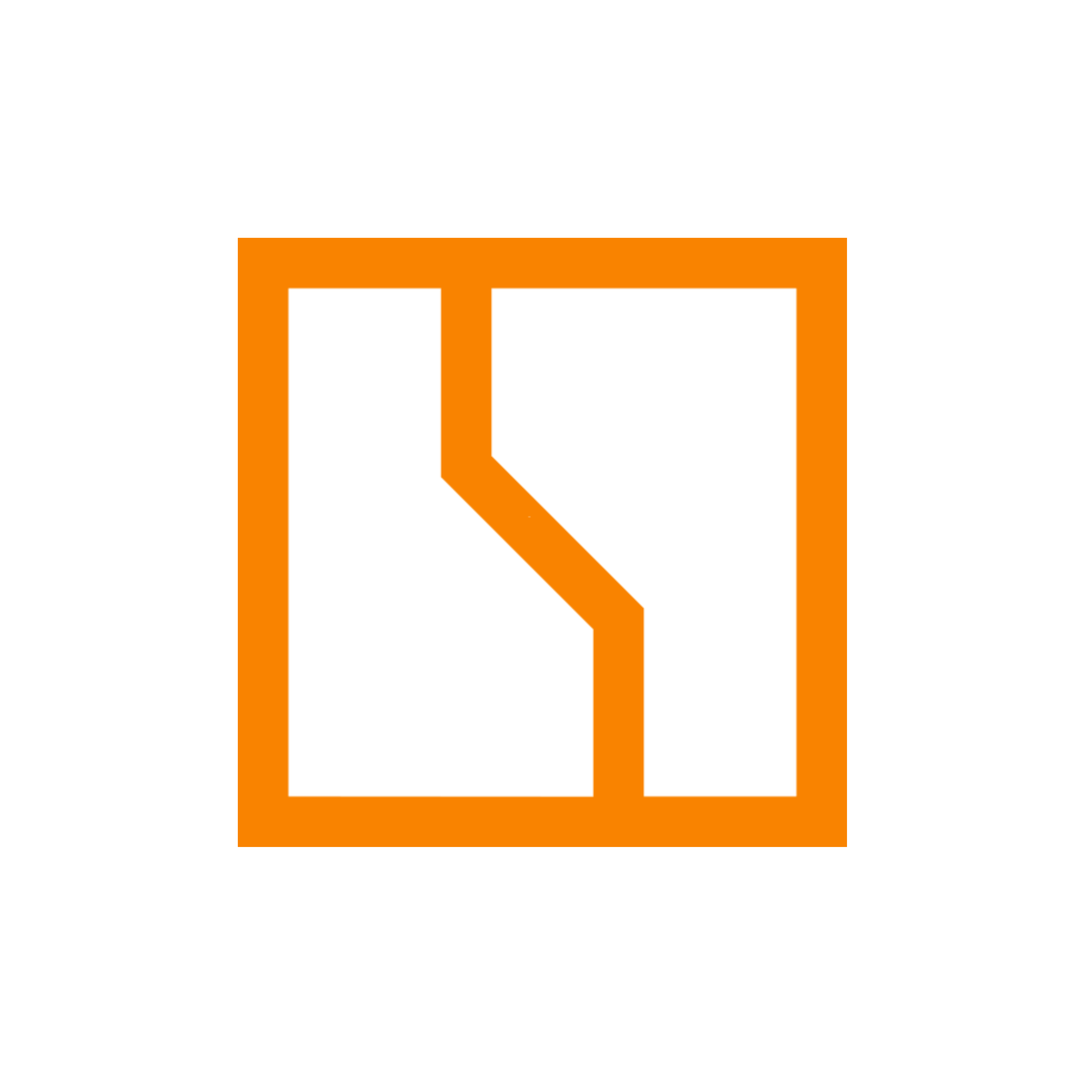
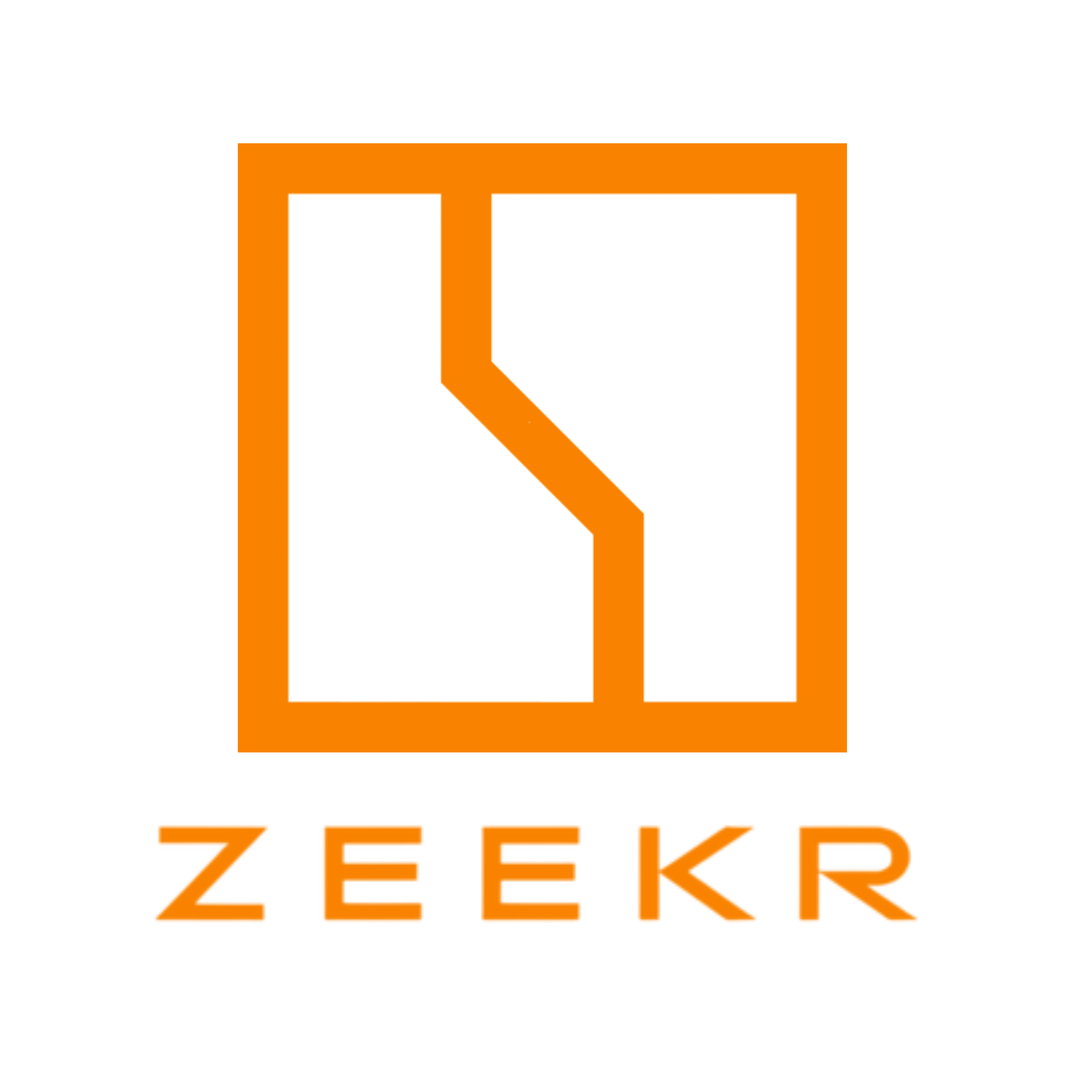
Updated

Changed region(s): [[0.1248, 0.624, 0.8424, 0.8736], [0.2184, 0.1248, 0.78, 0.2808], [0.4056, 0.3432, 0.5928, 0.5928]]

diff --git a/src/components/Public/EditorialServicePage.tsx b/src/components/Public/EditorialServicePage.tsx
@@ -72,6 +72,13 @@ const heroPanelByService: Record<string, string> = {
   "lexus-approved-body-shop-melbourne": media.heroPanels.lexus,
 };
 
+const approvedBrandIntroMarks: Record<string, { src: string; alt: string; width: number; height: number }> = {
+  Tesla: { src: "/images/tesla-approved-body-shop.webp", alt: "Tesla Approved Body Shop", width: 620, height: 204 },
+  Zeekr: { src: "/images/Zeekr Orange.webp", alt: "Zeekr", width: 320, height: 120 },
+  BYD: { src: "/images/BYD Red.webp", alt: "BYD", width: 320, height: 120 },
+  Lexus: { src: "/images/Lexus Silver.webp", alt: "Lexus", width: 320, height: 120 },
+};
+
 function heroPanelFor(service: ServiceContent) {
   return heroPanelByService[service.slug] ?? service.image;
 }
@@ -169,14 +176,14 @@ export default function EditorialServicePage({ service, copy }: { service: Servi
   const chapters = usesApprovedBrandLayout ? copy.sections.slice(6) : copy.sections;
   const related = services.filter((other) => other.slug !== service.slug && getEditorialServiceCopy(other.slug)).slice(0, 3);
   const faqHref = `/frequently-asked-questions?category=${encodeURIComponent(copy.category)}`;
+  const brandIntroMark = usesApprovedBrandLayout ? approvedBrandIntroMarks[copy.category] : undefined;
   const navigation: SectionNavigationItem[] = [
     ...(usesApprovedBrandLayout ? [{ id: "repair-standard", label: `${sourceText(copy.category)} repair standards`, number: "01" }] : []),
     ...chapters.map((section, index) => ({ id: sourceSectionId(index), label: sourceText(section.heading), number: String(index + 1 + (usesApprovedBrandLayout ? 1 : 0)).padStart(2, "0") })),
-    ...(copy.faqs.length ? [{ id: "service-faqs", label: "Questions & answers", number: "FAQ" }] : []),
   ];
 
   return (
-    <main className={`ca-service${isTesla ? " ca-service--tesla" : ""}${isZeekr ? " ca-service--zeekr" : ""}`}>
+    <main className={`ca-service${isTesla ? " ca-service--tesla" : ""}${isZeekr ? " ca-service--zeekr" : ""}${usesApprovedBrandLayout ? " ca-service--approved-brand" : ""}`}>
       <section className="ca-service__hero" aria-labelledby="service-heading">
         <div className="ca-service__hero-background" aria-hidden="true"><img src={service.image} alt="" /></div>
         <div className="shell ca-service__hero-grid">
@@ -206,7 +213,7 @@ export default function EditorialServicePage({ service, copy }: { service: Servi
           </div>
           <div className="ca-service__introduction-body">
             {copy.introParagraphs.map((paragraph, index) => <p key={index}>{sourceText(paragraph)}</p>)}
-            {isTesla && copy.brandMarks.length > 0 ? <div className="ca-service__brand-mark ca-service__brand-mark--image"><Image src="/images/Tesla Approved.webp" alt="Tesla Approved Body Shop" width={620} height={220} sizes="(max-width: 720px) 100vw, 620px" /></div> : copy.brandMarks.length > 0 ? <div className="ca-service__brand-mark" aria-label={copy.brandMarks.map(sourceText).join(" ")}>{copy.brandMarks.map((mark, index) => <span key={mark} className={index === 0 ? "ca-service__brand-name" : "ca-service__brand-caption"}>{sourceText(mark)}</span>)}</div> : null}
+            {brandIntroMark ? <div className="ca-service__brand-intro-proof"><div className="ca-service__brand-intro-mark"><Image src={brandIntroMark.src} alt={brandIntroMark.alt} width={brandIntroMark.width} height={brandIntroMark.height} sizes="(max-width: 920px) 320px, 620px" /></div></div> : copy.brandMarks.length > 0 ? <div className="ca-service__brand-mark" aria-label={copy.brandMarks.map(sourceText).join(" ")}>{copy.brandMarks.map((mark, index) => <span key={mark} className={index === 0 ? "ca-service__brand-name" : "ca-service__brand-caption"}>{sourceText(mark)}</span>)}</div> : null}
           </div>
         </div>
       </section>
@@ -226,13 +233,6 @@ export default function EditorialServicePage({ service, copy }: { service: Servi
         {chapters.map((section, index) => <EditorialSection key={`${index}-${section.heading}`} section={section} index={index} isZeekr={isZeekr} serviceSlug={service.slug} />)}
       </div>
 
-      {copy.faqs.length > 0 && <section id="service-faqs" className="ca-service__faq-link">
-        <div className="shell ca-service__faq-link-inner">
-          <div><span className="ca-service__small-label">NEED MORE INFORMATION?</span><h2>Questions before your repair?</h2><p>Read the original {copy.category} questions and answers on our dedicated FAQ page.</p></div>
-          <Link className="ca-service__button ca-service__button--outline" href={faqHref}>View {copy.category} FAQs <Icon name="arrow-outward" /></Link>
-        </div>
-      </section>}
-
       <section className="ca-service__contact-band" aria-label="Contact the CA Autobody team">
         <div className="shell ca-service__contact-band-inner">
           <div className="ca-service__contact-copy">
@@ -240,6 +240,7 @@ export default function EditorialServicePage({ service, copy }: { service: Servi
             <h2>{sourceText(copy.contactHeading ?? "Let’s talk about your vehicle.")}</h2>
             <span className="ca-service__chapter-rule" aria-hidden="true" />
             <p>{sourceText(copy.contactCopy ?? "Talk directly with our team about an assessment, repair options and getting back on the road.")}</p>
+            {copy.faqs.length > 0 ? <div className="ca-service__contact-faq"><Link className="ca-service__button ca-service__button--outline" href={faqHref}>View {copy.category} FAQs <Icon name="arrow-outward" /></Link></div> : null}
             {copy.disclaimer ? <p className="ca-service__disclaimer"><strong>Small print:</strong> {sourceText(copy.disclaimer)}</p> : null}
             <div className="ca-service__contact-detail"><span>VISIT THE WORKSHOP</span><strong>7 Ashley Park Drive<br />Chelsea Heights, VIC 3196</strong></div>
           </div>

diff --git a/src/app/site-enhancements.css b/src/app/site-enhancements.css
@@ -44,10 +44,10 @@
 @media(prefers-reduced-motion:reduce){.service-area-map__areas button,.service-area-map__areas button i,.service-area-map__pin,.service-area-map__selection a,.service-area-map__selection a b,.service-area-map__directions{transition:none!important}}
 
 /* Global review link: compact, recognisable and available on every public page. */
-.hp-google-rating-float{position:fixed;z-index:70;left:clamp(12px,2vw,28px);bottom:clamp(12px,2vw,26px);width:164px;min-height:58px;padding:9px 11px;display:grid;grid-template-columns:31px auto 1fr;grid-template-rows:19px 17px;align-items:center;column-gap:7px;background:#fff;color:#151515!important;border-radius:9px;box-shadow:0 12px 30px rgba(0,0,0,.22);font-family:Arial,sans-serif;line-height:1;transition:transform .2s var(--hp-ease),box-shadow .2s var(--hp-ease)}
-.hp-google-rating-float:hover{transform:translateY(-2px);box-shadow:0 16px 34px rgba(0,0,0,.28)}
+.hp-google-rating-float{position:fixed;z-index:70;left:clamp(12px,2vw,28px);bottom:clamp(12px,2vw,26px);width:232px;min-height:70px;padding:13px 15px;display:grid;grid-template-columns:38px minmax(0,1fr);align-items:center;column-gap:13px;background:#fffdf9;color:#151515!important;border:1px solid #e7dfd1;border-radius:11px;box-shadow:0 10px 25px rgba(31,27,21,.16);font-family:Arial,sans-serif;line-height:1;transition:transform .2s var(--hp-ease),box-shadow .2s var(--hp-ease),border-color .2s var(--hp-ease)}
+.hp-google-rating-float:hover{transform:translateY(-2px);border-color:#d5b980;box-shadow:0 14px 30px rgba(31,27,21,.2)}
 .hp-google-rating-float:focus-visible{outline:2px solid var(--hp-gold-2);outline-offset:3px}
-.hp-google-rating-float__mark{grid-row:1/3;width:30px;height:30px}.hp-google-rating-float__copy{display:contents}.hp-google-rating-float__copy b{grid-column:2/4;grid-row:1;color:#171717;font-size:12px;font-weight:700;letter-spacing:-.01em}.hp-google-rating-float__copy strong{grid-column:2;grid-row:2;color:#171717;font-size:12px;font-weight:700}.hp-google-rating-float__stars{grid-column:3;grid-row:2;color:#e9aa14;font-size:14px;letter-spacing:-1px;white-space:nowrap}
+.hp-google-rating-float__mark{width:38px;height:38px}.hp-google-rating-float__copy{display:grid;min-width:0;gap:7px}.hp-google-rating-float__copy b{color:#3c3730;font-size:10px;font-weight:800;letter-spacing:.075em;line-height:1.1;text-transform:uppercase;white-space:nowrap}.hp-google-rating-float__metric{display:flex;align-items:center;gap:11px;min-height:18px}.hp-google-rating-float__copy strong{color:#171717;font-size:18px;font-weight:800;letter-spacing:-.04em;line-height:1}.hp-google-rating-float__stars{color:#f2b705;font-size:16px;letter-spacing:1px;line-height:1;white-space:nowrap}
 
 /* One typographic rule keeps every desktop navigation label on the same baseline. */
 .hp-header__inner{grid-template-columns:154px minmax(0,1fr) auto;gap:22px}.hp-nav{justify-content:center}.hp-nav__link{min-height:100%;padding-inline:17px;font-size:clamp(12px,.82vw,14px);font-weight:600;line-height:1;letter-spacing:-.012em}.hp-nav__link::after{left:17px;right:17px}.hp-header__call{font-size:13px;font-weight:700;line-height:1;letter-spacing:-.01em}
@@ -58,7 +58,7 @@
 @media(max-width:1240px){.hp-header__inner{grid-template-columns:124px minmax(0,1fr) auto;gap:10px}.hp-nav__link{padding-inline:11px;font-size:12px}.hp-nav__link::after{left:11px;right:11px}.hp-footer__grid{grid-template-columns:1.05fr .72fr .95fr 1.15fr;gap:36px 28px}.hp-footer__brand{grid-row:span 2}.hp-footer__contact{grid-column:4;grid-row:1/3;padding-left:27px}.hp-footer__areas{grid-column:2/4}}
 @media(max-width:1020px){.hp-header__inner{grid-template-columns:1fr auto auto}.hp-nav__link{min-height:58px;padding-inline:4px;font-size:15px;line-height:1.15;letter-spacing:0}.hp-footer__grid{grid-template-columns:1.1fr 1fr 1fr;gap:44px 30px}.hp-footer__brand{grid-row:span 2}.hp-footer__areas{grid-column:2/4}.hp-footer__contact{grid-column:auto;grid-row:auto;padding-left:0;border-left:0}}
 @media(max-width:780px){.hp-footer__grid{grid-template-columns:1fr 1fr;gap:42px 28px;padding-top:52px;padding-bottom:44px}.hp-footer__brand{grid-column:1/-1;grid-row:auto}.hp-footer__areas{grid-column:auto}.hp-footer__contact{grid-column:1/-1;display:grid;grid-template-columns:1fr 1fr;column-gap:28px}.hp-footer__contact h3{grid-column:1/-1}.hp-footer__contact .hp-footer__socials{align-self:start}.hp-google-rating-float{bottom:12px;left:12px}.hp-header__call{font-size:0}.hp-header__call svg{width:19px;height:19px}}
-@media(max-width:520px){.hp-google-rating-float{width:158px;min-height:56px;left:10px;bottom:10px}.hp-footer__grid{grid-template-columns:1fr;gap:35px;padding-top:44px}.hp-footer__brand{grid-column:auto}.hp-footer__contact{grid-column:auto;display:block}.hp-footer__areas{grid-template-columns:1fr 1fr}.hp-footer__bottom{align-items:flex-start}.hp-footer__bottom a{margin-top:4px}}
+@media(max-width:520px){.hp-google-rating-float{width:218px;min-height:66px;padding:12px;column-gap:11px;left:10px;bottom:10px}.hp-google-rating-float__mark{width:35px;height:35px}.hp-google-rating-float__copy{gap:6px}.hp-google-rating-float__copy strong{font-size:17px}.hp-google-rating-float__stars{font-size:15px;letter-spacing:.7px}.hp-footer__grid{grid-template-columns:1fr;gap:35px;padding-top:44px}.hp-footer__brand{grid-column:auto}.hp-footer__contact{grid-column:auto;display:block}.hp-footer__areas{grid-template-columns:1fr 1fr}.hp-footer__bottom{align-items:flex-start}.hp-footer__bottom a{margin-top:4px}}
 @media(prefers-reduced-motion:reduce){.hp-google-rating-float{transition:none!important}}
 
 /* Editorial utility patterns: predictable, responsive and deliberately restrained. */

diff --git a/src/app/service-refresh.css b/src/app/service-refresh.css
@@ -49,29 +49,27 @@
 
 /* SIDE NAV — every anchor targets a DOM section on the same service page. */
 .ca-service .ca-service__introduction {padding-block: clamp(72px, 7vw, 110px)}
-.ca-service .ca-service__introduction-grid {grid-template-columns: minmax(215px, .33fr) minmax(0, 1fr); gap: clamp(42px, 7vw, 115px)}
+.ca-service .ca-service__introduction-grid {grid-template-columns: minmax(215px, .33fr) minmax(0, 1fr); gap: clamp(32px, 4vw, 68px)}
 .ca-service .ca-service__introduction-aside {top: 110px; max-height: calc(100vh - 130px); overflow-y: auto; scrollbar-width: thin}
 .ca-service .ca-service__introduction-aside > p {font-size: clamp(20px, 1.45vw, 24px); letter-spacing: -.035em; line-height: 1.22; margin: 11px 0 22px}
 .ca-service .ca-service__index-links {border-top: 1px solid #d4cec3; padding-top: 16px}
 .ca-service .ca-service__index-links > span {font-size: 10px; color: #8b7965; margin-bottom: 13px; letter-spacing: .15em}
 .ca-service .ca-service__index-links a {
-  display: grid; grid-template-columns: 25px minmax(0,1fr); gap: 10px;
-  font-size: clamp(14px, .9vw, 15px); line-height: 1.48; padding: 12px 7px 12px 0;
+  display: grid; grid-template-columns: 30px minmax(0,1fr); gap: 12px;
+  font-size: clamp(18px, 1.35vw, 20px); font-weight: 700; line-height: 1.38; padding: 17px 7px 17px 0;
   border-bottom: 1px solid #e6e2dc; color: #47433d; transition: color .2s, padding-left .2s;
 }
-.ca-service .ca-service__index-links a > span:first-child {color: #ae8248; font-size: 10px; padding-top: 2px}
+.ca-service .ca-service__index-links a > span:first-child {color: #ae8248; font-size: 12px; padding-top: 3px}
 .ca-service .ca-service__index-links a > span:last-child {min-width: 0}
 .ca-service .ca-service__index-links a:hover, .ca-service .ca-service__index-links a.is-current {color: #8a5d26; padding-left: 5px}
 .ca-service .ca-service__index-links a.is-current {font-weight: 700}
 .ca-service .ca-service__introduction-body > p {font-size: clamp(16px, 1.28vw, 19px); line-height: 1.85}
 .ca-service .ca-service__introduction-body > p:first-child {font-size: inherit}
-.ca-service .ca-service__chapter, .ca-service .ca-service__features, .ca-service .ca-service__faq-link {scroll-margin-top: 105px}
+.ca-service .ca-service__chapter, .ca-service .ca-service__features {scroll-margin-top: 105px}
 .ca-service .ca-service__features {scroll-margin-top: 105px}
 .ca-service .ca-service__chapter-side h2 {font-size: clamp(29px, 2.7vw, 44px); line-height: 1.16; margin-top: 0}
 .ca-service .ca-service__chapter {padding-block: clamp(66px, 7vw, 105px)}
 .ca-service .ca-service__paragraph, .ca-service .ca-service__detail p {font-size: clamp(15px, 1.15vw, 17px); line-height: 1.86}
-.ca-service .ca-service__faq-link {padding-block: clamp(48px, 5vw, 76px); background: #eee8dd}
-.ca-service .ca-service__faq-link h2 {font-size: clamp(26px, 2.6vw, 40px)}
 
 /* CHAPTER FLOW — narrow screens read top-to-bottom; desktop returns the chapter title
    to its own left rail so every service page shares the same reading structure. */
@@ -93,15 +91,6 @@
   .ca-service .ca-service__section-content { max-width: 800px; margin-top: 0; }
   .ca-service .ca-service__section-content > .ca-service__paragraph { max-width: 760px; }
   .ca-service .ca-service__bullet-list { max-width: 800px; margin-top: 0; }
-}
-
-/* FAQ ACTION — place the action beside the supporting copy instead of against the page edge. */
-.ca-service .ca-service__faq-link-inner {display: grid;grid-template-columns: minmax(0, 620px) max-content;justify-content: start;align-items: center;gap: clamp(24px, 4vw, 64px)}
-.ca-service .ca-service__faq-link-inner > div {max-width: 620px}
-
-@media(max-width:900px) {
-  .ca-service .ca-service__faq-link-inner {grid-template-columns: minmax(0, 1fr);gap: 26px}
-  .ca-service .ca-service__faq-link .ca-service__button {justify-self: start}
 }
 
 @media(max-width:690px) {
@@ -545,4 +534,45 @@
   .brand-repair-page .brand-assessment-intake { padding-block: 54px 64px; }
   .ca-service .ca-service__hero::before,
   .brand-repair-page .brand-hero::before { background: rgba(15,14,12,.7); }
+}
+
+/* Service guide is a genuine page directory. Keep it prominent against the body copy,
+   including where older editorial rules are loaded by a cached stylesheet. */
+.ca-service .ca-service__introduction-aside > .ca-service__small-label {
+  font-size: 13px !important;
+  letter-spacing: .18em;
+}
+.ca-service .ca-service__introduction-aside > p {
+  font-size: clamp(26px, 1.9vw, 30px) !important;
+  line-height: 1.16;
+  margin-bottom: 28px;
+}
+.ca-service .ca-service__index-links > span {
+  font-size: 12px !important;
+  letter-spacing: .16em;
+  margin-bottom: 16px;
+}
+.ca-service .ca-service__index-links a {
+  grid-template-columns: 42px minmax(0, 1fr);
+  gap: 16px;
+  font-size: clamp(23px, 1.8vw, 26px) !important;
+  font-weight: 700;
+  line-height: 1.3;
+  padding-block: 22px;
+}
+.ca-service .ca-service__index-links a > span:first-child {
+  font-size: 15px !important;
+  padding-top: 4px;
+}
+.ca-service .ca-service__index-links a > span:last-child {
+  font-size: clamp(18px, 1.3vw, 20px) !important;
+  font-weight: 700;
+  line-height: 1.3;
+}
+
+@media (max-width: 650px) {
+  .ca-service .ca-service__introduction-aside > .ca-service__small-label { font-size: 12px !important; }
+  .ca-service .ca-service__introduction-aside > p { font-size: 27px !important; }
+  .ca-service .ca-service__index-links a { font-size: 23px !important; }
+  .ca-service .ca-service__index-links a > span:last-child { font-size: 18px !important; }
 }

diff --git a/src/app/premium-refinements.css b/src/app/premium-refinements.css
@@ -23,6 +23,19 @@
 .ca-service .ca-service__contact-card h3{font-size:clamp(26px,2.6vw,37px);font-weight:700;line-height:1.16;letter-spacing:-.04em;margin:0 0 10px}
 .ca-service .ca-service__contact-card .ca-service__button{min-width:240px}
 
+/* Approved brand introductions reserve a restrained ruled field for their
+   supplied approval mark. The Service Guide remains unchanged. */
+@media(min-width:921px){.ca-service--approved-brand .ca-service__introduction-grid{align-items:stretch}.ca-service--approved-brand .ca-service__introduction-body{display:flex;flex-direction:column;min-height:100%}.ca-service--approved-brand .ca-service__brand-intro-proof{margin-top:auto}}
+.ca-service__brand-intro-proof{width:min(100%,840px);margin-top:clamp(42px,5.5vw,84px);padding:clamp(28px,3vw,40px) 0;border-top:1px solid #d6cfc2;border-bottom:1px solid #d6cfc2}
+.ca-service__brand-intro-mark{display:flex;align-items:center;min-height:clamp(124px,11vw,164px)}
+.ca-service__brand-intro-mark img{display:block;width:min(100%,500px);height:clamp(124px,11vw,164px);object-fit:contain;object-position:left center}
+.ca-service--tesla .ca-service__brand-intro-mark{min-height:clamp(154px,12vw,190px)}
+.ca-service--tesla .ca-service__brand-intro-mark img{width:min(100%,620px);height:clamp(154px,12vw,190px)}
+.ca-service--zeekr .ca-service__brand-intro-mark{min-height:clamp(190px,14vw,230px)}
+.ca-service--zeekr .ca-service__brand-intro-mark img{width:clamp(190px,14vw,230px);height:clamp(190px,14vw,230px)}
+@media(max-width:920px){.ca-service__brand-intro-proof{width:100%;margin-top:38px}.ca-service__brand-intro-mark{min-height:118px}.ca-service__brand-intro-mark img{width:min(100%,390px);height:132px}.ca-service--tesla .ca-service__brand-intro-mark{min-height:142px}.ca-service--tesla .ca-service__brand-intro-mark img{width:min(100%,480px);height:142px}.ca-service--zeekr .ca-service__brand-intro-mark{min-height:184px}.ca-service--zeekr .ca-service__brand-intro-mark img{width:184px;height:184px}}
+@media(max-width:560px){.ca-service__brand-intro-proof{margin-top:32px;padding-block:24px}.ca-service__brand-intro-mark img{width:min(100%,320px);height:118px}.ca-service--tesla .ca-service__brand-intro-mark{min-height:118px}.ca-service--tesla .ca-service__brand-intro-mark img{width:100%;height:118px}.ca-service--zeekr .ca-service__brand-intro-mark{min-height:160px}.ca-service--zeekr .ca-service__brand-intro-mark img{width:160px;height:160px}}
+
 /* Brand artwork is contained in the existing editorial rhythm rather than treated as a text substitute. */
 .ca-service__brand-mark--image{display:flex;align-items:center;max-width:620px;min-height:220px;margin-top:clamp(28px,4vw,46px);padding:clamp(22px,3vw,32px) 0;overflow:hidden;border-top:1px solid currentColor;border-bottom:1px solid currentColor}
 .ca-service__brand-mark--image img{display:block;width:100%;height:180px;max-height:none;object-fit:contain;object-position:left center;transform:scale(1.4);transform-origin:left center}

diff --git a/src/app/service-editorial.css b/src/app/service-editorial.css
@@ -76,16 +76,13 @@
 .ca-service__bullet-list li{position:relative;border-bottom:1px solid #d8d2c7;padding:15px 10px 15px 22px;font-size:14px;line-height:1.5;font-weight:700;color:#34312b}
 .ca-service__bullet-list li::before{content:"";width:6px;height:6px;background:#a97836;position:absolute;top:22px;left:1px}
 .ca-service__chapter--ink .ca-service__bullet-list li{color:#efebe6;border-bottom-color:#514a40}
-.ca-service__faq-link{background:#efe8db;padding:clamp(60px,6vw,94px) 0}
-.ca-service__faq-link-inner{display:flex;align-items:center;justify-content:space-between;gap:50px}
-.ca-service__faq-link h2{font-size:clamp(30px,3.35vw,47px);line-height:1.1;letter-spacing:-.045em;margin:15px 0}
-.ca-service__faq-link p{color:#5c564c;font-size:15px;line-height:1.7;margin:0;max-width:570px}
-.ca-service__faq-link .ca-service__button{flex-shrink:0}
 .ca-service__contact-band{background:#10100f;color:#fff;padding:clamp(78px,9vw,125px) 0}
 .ca-service__contact-band-inner{display:flex;justify-content:space-between;align-items:center;gap:45px}
 .ca-service__contact-band .ca-service__small-label{color:#d3a963}
 .ca-service__contact-band h2{font-size:clamp(37px,5vw,68px);letter-spacing:-.06em;font-weight:650;line-height:1.08;max-width:700px;margin:17px 0 23px}
 .ca-service__contact-band p{color:#beb8af;font-size:15px;line-height:1.75;max-width:550px;margin:0}
+.ca-service__contact-faq{margin-top:clamp(24px,2.4vw,32px)}
+.ca-service__contact-faq .ca-service__button{min-width:min(100%,260px)}
 .ca-service__contact-band-inner>div:last-child{display:grid;gap:19px;justify-items:stretch;min-width:235px}
 .ca-service__contact-phone{color:#fff;text-align:center;font-size:19px;letter-spacing:-.025em;font-weight:650}
 .ca-service__contact-phone:hover{color:#d3a963}
@@ -128,7 +125,7 @@
   .ca-service__section-content--offerings,.ca-service__section-content--reasons,.ca-service__bullet-list{grid-template-columns:1fr}
   .ca-service__section-content--offerings>.ca-service__detail{padding:25px 0}
   .ca-service__detail{gap:8px;grid-template-columns:30px minmax(0,1fr)}
-  .ca-service__faq-link-inner,.ca-service__contact-band-inner{display:grid;grid-template-columns:1fr;gap:34px}.ca-service__faq-link .ca-service__button{justify-self:start}
+  .ca-service__contact-band-inner{display:grid;grid-template-columns:1fr;gap:34px}
   .ca-service__contact-band-inner>div:last-child{justify-items:start;min-width:0}
   .ca-service__related-header{align-items:start;flex-direction:column}.ca-service__related-grid{grid-template-columns:1fr;border-left:0}.ca-service__related-grid>a{min-height:125px;border-right:0;border-bottom:1px solid #d6cfc2;padding:23px 0}.ca-service__related-grid h3{margin:8px 0 12px}
 }

diff --git a/src/components/Public/HomeV4.tsx b/src/components/Public/HomeV4.tsx
@@ -39,7 +39,7 @@ export default function HomeV4({ hero }: { hero: HomeHero }) {
         <div className="hp-brands-wrap">
           <div className="hp-brands hp-shell" aria-label="Vehicle brands serviced by CA Autobody">
             <div className="hp-brand-grid">
-              {vehicleBrandLogos.map(([name, image]) => <div className="hp-brand-logo" key={name}><img src={image} alt={name} /><span>{name}</span></div>)}
+              {vehicleBrandLogos.map(([name, image]) => <div className={`hp-brand-logo${name === "Zeekr" ? " hp-brand-logo--zeekr" : ""}`} key={name}><img src={image} alt={name} /><span>{name}</span></div>)}
             </div>
             <div className="hp-brand-rule"><span /><strong>All makes &amp; models</strong><span /></div>
           </div>
@@ -50,7 +50,7 @@ export default function HomeV4({ hero }: { hero: HomeHero }) {
         <div className="hp-trust hp-shell">
           <article className="hp-trust__item hp-trust__item--google">
             <span className="hp-trust__brand hp-trust__brand--google" aria-hidden="true"><svg viewBox="0 0 48 48"><path fill="#FFC107" d="M43.6 20.5H42V20H24v8h11.3A12 12 0 0 1 12 24a12 12 0 0 1 19.2-9.6l5.7-5.7A20 20 0 1 0 44 24c0-1.2-.1-2.3-.4-3.5Z" /><path fill="#FF3D00" d="M6.3 14.7 12.9 19A12 12 0 0 1 31.2 14.4l5.7-5.7A20 20 0 0 0 6.3 14.7Z" /><path fill="#4CAF50" d="M24 44c5.2 0 9.8-2 13.3-5.2l-6.1-5.2A12 12 0 0 1 13 29l-6.5 5A20 20 0 0 0 24 44Z" /><path fill="#1976D2" d="M43.6 20.5H42V20H24v8h11.3a12 12 0 0 1-4.1 5.6l6.1 5.2C41 35.4 44 30.4 44 24c0-1.2-.1-2.3-.4-3.5Z" /></svg></span>
-            <div className="hp-trust__copy"><strong>4.9 star rating</strong><span className="hp-stars" aria-label="4.9 star rating">{Array.from({ length: 5 }, (_, index) => <StarRounded key={index} aria-hidden="true" />)}</span><p>Based on Google reviews from our happy customers.</p></div>
+            <div className="hp-trust__copy"><strong>4.9 star rating</strong><span className="hp-stars" aria-label="4.9 star rating">{Array.from({ length: 5 }, (_, index) => <StarRounded key={index} aria-hidden="true" />)}</span><p>350+ 5-star Google reviews.</p></div>
           </article>
           <article className="hp-trust__item">
             <span className="hp-trust__brand hp-trust__brand--car" aria-hidden="true"><DirectionsCarFilledRounded /></span>

diff --git a/src/components/Public/V4/QuickActions.tsx b/src/components/Public/V4/QuickActions.tsx
@@ -33,7 +33,7 @@ export default function QuickActions() {
         href="https://admin.trustindex.io/api/googleReview?place-id=ChIJ5xaw2aoS1moRDU4kUHImdPg"
         target="_blank"
         rel="noopener noreferrer"
-        aria-label="Read CA Autobody's 4.9 star Google rating"
+        aria-label="Read CA Autobody's 4.9 star Google rating from more than 350 five-star reviews"
       >
         <svg className="hp-google-rating-float__mark" viewBox="0 0 48 48" aria-hidden="true">
           <path fill="#EA4335" d="M24 9.5c3.54 0 6.71 1.22 9.21 3.61l6.86-6.86C35.9 2.36 30.5 0 24 0 14.62 0 6.51 5.38 2.56 13.22l7.98 6.2C12.43 13.56 17.74 9.5 24 9.5Z" />
@@ -41,8 +41,10 @@ export default function QuickActions() {
           <path fill="#FBBC05" d="M10.54 28.58A14.43 14.43 0 0 1 9.77 24c0-1.59.27-3.13.77-4.58l-7.98-6.2A23.9 23.9 0 0 0 0 24c0 3.86.92 7.52 2.56 10.78l7.98-6.2Z" />
           <path fill="#34A853" d="M24 48c6.5 0 11.95-2.15 15.94-5.85l-7.56-5.87c-2.1 1.41-4.78 2.25-8.38 2.25-6.26 0-11.57-4.06-13.46-9.95l-7.98 6.2C6.51 42.62 14.62 48 24 48Z" />
         </svg>
-        <span className="hp-google-rating-float__copy"><b>Google rating</b><strong>4.9</strong></span>
-        <span className="hp-google-rating-float__stars" aria-hidden="true">★★★★★</span>
+        <span className="hp-google-rating-float__copy">
+          <b>350+ five-star reviews</b>
+          <span className="hp-google-rating-float__metric"><strong>4.9</strong><span className="hp-google-rating-float__stars" aria-hidden="true">★★★★★</span></span>
+        </span>
       </a>
       <aside className={`hp-utility-rail ${footerVisible ? "is-footer-visible" : ""}`} aria-label="Quick actions">
         <a href="tel:+61397727411" aria-label="Call CA Autobody">

diff --git a/src/components/Public/V4/ServiceExperience.tsx b/src/components/Public/V4/ServiceExperience.tsx
@@ -9,6 +9,8 @@ import ChevronRightRounded from "@mui/icons-material/ChevronRightRounded";
 import ActionIcon from "@/components/UI/ActionIcon";
 
 const items = [
+  { label: "Tesla Repair", kicker: "01 / Tesla", title: "Tesla Repair", image: media.heroPanels.tesla, copy: "Specialist accident repair support for Tesla vehicles, with care for modern EV construction, finish and approved repair requirements.", href: "/services/tesla-approved-repair-centre", cta: "Explore Tesla Repair" },
+  { label: "Zeekr Repair", kicker: "02 / Zeekr", title: "Zeekr Repair", image: media.heroPanels.zeekr, copy: "Approved repair support for Zeekr vehicles, with careful assessment, accurate colour matching and modern EV repair procedures.", href: "/services/services-zeekr-approved-repairer-melbourne", cta: "Explore Zeekr Repair" },
   { label: "BYD Repair", kicker: "03 / BYD", title: "BYD Repair", image: media.brandRepair.bydHero, copy: "Approved repair support for BYD vehicles, with EV-aware assessment, genuine parts planning and manufacturer-aligned procedures.", href: "/services/byd-approved-repairer-melbourne", cta: "Explore BYD Repair" },
   { label: "Lexus Repair", kicker: "04 / Lexus", title: "Lexus Repair", image: media.brandRepair.lexusHero, copy: "Approved Lexus collision repair with careful body accuracy, refinishing and genuine parts planning.", href: "/services/lexus-approved-body-shop-melbourne", cta: "Explore Lexus Repair" },
   { label: "Prestige Brands", kicker: "05 / Approved Expertise", title: "Prestige Brands", image: media.workshop.exteriorWide, copy: "Approved repair support for Tesla, Zeekr, BYD and Lexus vehicles, with care for modern construction and finish quality.", href: "/services", cta: "All Services" },

diff --git a/src/app/v4.css b/src/app/v4.css
@@ -383,7 +383,7 @@ body.home-v2 .hp-location__actions .hp-btn--black:hover{color:#111!important}
   position:absolute;
   inset:0;
   z-index:0;
-  background-image:url("/images/homepage-Replacement-Vehicles.webp");
+  background-image:url("/images/Chelsea-Auto-Body-003.webp");
   background-size:cover;
   background-position:center 48%;
   transform:scale(1.012);
@@ -769,3 +769,11 @@ body.home-v2 .hp-btn--hero-secondary:hover{border-color:#111;color:#fff!importan
 @media(prefers-reduced-motion:reduce){
   .hp-service-controls button{transition:none}
 }
+
+/* Zeekr's supplied lockup is intentionally vertical. It needs its own taller
+   mark area so the wordmark remains part of the logo at every breakpoint. */
+.hp-brand-logo--zeekr{min-height:82px}
+.hp-brand-logo--zeekr img{max-width:92px;max-height:76px}
+@media(max-width:1020px){.hp-brand-logo--zeekr{min-height:70px}.hp-brand-logo--zeekr img{max-width:76px;max-height:64px}}
+@media(max-width:720px){.hp-brand-logo--zeekr{min-height:62px}.hp-brand-logo--zeekr img{max-width:66px;max-height:56px}}
+@media(max-width:420px){.hp-brand-logo--zeekr{min-height:56px}.hp-brand-logo--zeekr img{max-width:58px;max-height:50px}}
